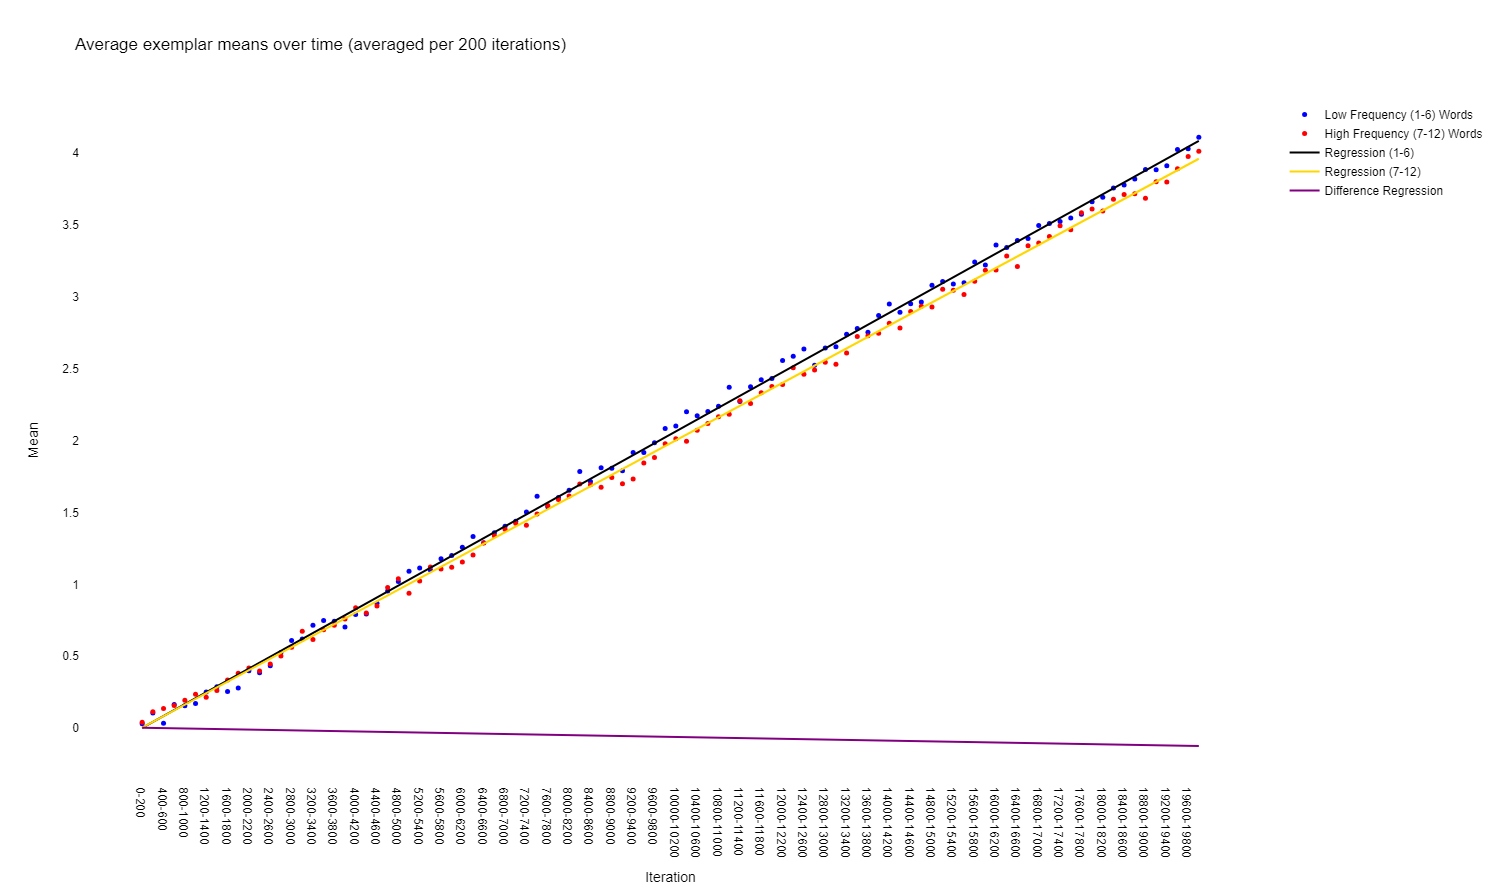
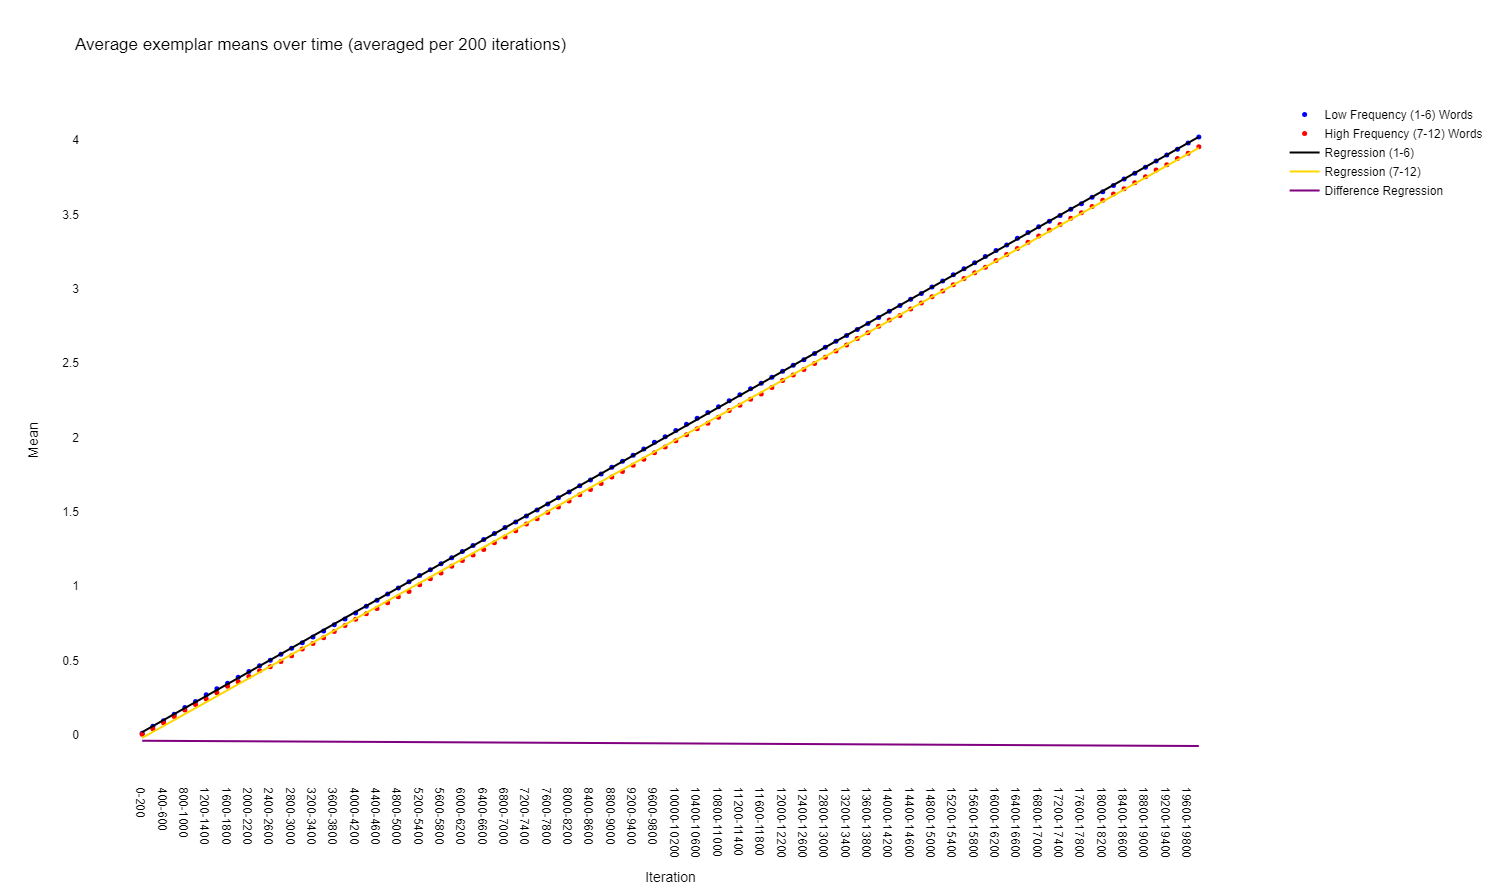
Add files via upload

diff --git a/Simple Dynamical Systems/Parallel/parallel_new.py b/Simple Dynamical Systems/Parallel/parallel_new.py
@@ -40,67 +40,92 @@ def reset_data(run_number):
     return pivoted_data_path
 
 def process_model(run_number):
-    try:
-        # Reset data for this run
-        pivoted_data_path = reset_data(run_number)
+    # Reset data for this run
+    pivoted_data_path = reset_data(run_number)
 
-        # Define mean dictionaries
-        means_1_6 = {}
-        means_7_12 = {}
+    # Define mean dictionaries
+    means_1_6_new = {}
+    means_7_12_new = {}
 
-        for i in range(20000):  # Increased number of iterations to 20,000
-            # Read master data
-            df = pd.read_json(pivoted_data_path, orient='records', lines=True)
+    df = pd.read_json(pivoted_data_path, orient='records', lines=True)
+    
+    # Extract the 'words' dictionary from the DataFrame
+    words_data = df['word_key'].tolist()
+    frequencies = df['frequency'].astype(int).tolist()
 
-            # Extract the 'words' dictionary from the DataFrame
-            words_data = df['word_key'].tolist()
-            frequencies = df['frequency'].astype(int).tolist()
+    # Initialize the sum of exemplar frequencies
+    exemplar_frequency_sum_1_6 = df[df.frequency <= 6]['frequency'].sum()
+    exemplar_frequency_sum_7_12 = df[df.frequency > 6]['frequency'].sum()
 
-            # Picking a word based on its frequency
-            chosen_word = random.choices(words_data, weights=frequencies, k=1)[0]
+    # Initialize exemplar means
+    filtered_df_1_6 = df[df['frequency'] <= 6]
+    filtered_df_7_12 = df[df['frequency'] > 6]
+    flattened_exemplars_1_6 = [exemplar for sublist in filtered_df_1_6['exemplars'] for exemplar in sublist] # Flatten the list of exemplar lists into a single list
+    flattened_exemplars_7_12 = [exemplar for sublist in filtered_df_7_12['exemplars'] for exemplar in sublist] # Flatten the list of exemplar lists into a single list
+    mean_exemplars_1_6 = np.mean(flattened_exemplars_1_6)
+    mean_exemplars_7_12 = np.mean(flattened_exemplars_7_12)
 
-            # Extract exemplars for the chosen word
-            exemplars_list = df[df.word_key == chosen_word]['exemplars'].iloc[0]
+    for i in range(20000):  # Increased number of iterations to 20,000
 
-            # Choose an exemplar randomly without weighting
-            chosen_exemplar = random.choice(exemplars_list)
+        # Picking a word based on its frequency
+        chosen_word = random.choices(words_data, weights=frequencies, k=1)[0]
 
-            # Add 0.1 to chosen exemplar
-            new_exemplar = chosen_exemplar + 0.1
+        # Extract exemplars for the chosen word
+        exemplars_list = df[df.word_key == chosen_word]['exemplars'].iloc[0]
 
-            # Choose a random index within the range of indices
-            random_index = np.random.choice(len(exemplars_list))
+        # Choose an exemplar randomly without weighting
+        chosen_exemplar = random.choice(exemplars_list)
 
-            # Replace the value of the exemplar at the random index with the new exemplar
-            exemplars_list[random_index] = new_exemplar
+        # Add 0.1 to chosen exemplar
+        new_exemplar = chosen_exemplar + 0.1
 
-            # Update the dataframe with the new exemplar list
-            df.at[df[df.word_key == chosen_word].index[0], 'exemplars'] = exemplars_list
-            df.to_json(pivoted_data_path, orient='records', lines=True)
+        # Choose a random index within the range of indices
+        random_index = np.random.choice(len(exemplars_list))
 
-            # Save the mean of the exemplars
-            if int(df[df.word_key == chosen_word]['frequency'].iloc[0]) < 7:
-                means_1_6[i] = np.mean(exemplars_list)
+        # Store the value of the exemplar at the random index
+        storage = exemplars_list[random_index]
+
+        # Replace the value of the exemplar at the random index with the new exemplar
+        exemplars_list[random_index] = new_exemplar
+
+        # Update the dataframe with the new exemplar list
+        df.at[df[df.word_key == chosen_word].index[0], 'exemplars'] = exemplars_list
+
+        # Calculate frequency of the chosen word
+        freq = int(df[df.word_key == chosen_word]['frequency'].iloc[0])
+
+        # Save the mean of the exemplars
+        if freq < 7:
+            # NEW
+            diff = new_exemplar - storage
+            if len(means_1_6_new) == 0:
+                means_1_6_new[i] = mean_exemplars_1_6 + diff / exemplar_frequency_sum_1_6 
+                index_storage_1_6 = i
             else:
-                means_7_12[i] = np.mean(exemplars_list)
-            
-            # Test
-            print(i, run_number)
+                means_1_6_new[i] = means_1_6_new[index_storage_1_6] + diff / exemplar_frequency_sum_1_6 
+                index_storage_1_6 = i
 
-        # Save the mean dictionaries as JSON files
-        means_1_6_path = f"Outputs/means_1_6_run{run_number + 1}.json"
-        means_7_12_path = f"Outputs/means_7_12_run{run_number + 1}.json"
+        else:
+            # NEW
+            diff = new_exemplar - storage
+            if len(means_7_12_new) == 0:
+                means_7_12_new[i] = mean_exemplars_7_12 + diff / exemplar_frequency_sum_7_12 
+                index_storage_7_12 = i
+            else:
+                means_7_12_new[i] = means_7_12_new[index_storage_7_12] + diff / exemplar_frequency_sum_7_12
+                index_storage_7_12 = i
 
-        with open(means_1_6_path, 'w') as f:
-            json.dump(means_1_6, f)
+    # Save the mean dictionaries as JSON files
+    means_1_6_new_path = f"Outputs/means_1_6_new_run{run_number + 1}.json"
+    means_7_12_new_path = f"Outputs/means_7_12_new_run{run_number + 1}.json"
 
-        with open(means_7_12_path, 'w') as f:
-            json.dump(means_7_12, f)
+    with open(means_1_6_new_path, 'w') as f:
+        json.dump(means_1_6_new, f)
 
-        return means_1_6_path, means_7_12_path
+    with open(means_7_12_new_path, 'w') as f:
+        json.dump(means_7_12_new, f)
 
-    except Exception as e:
-        print(f"Error in run {run_number}: {e}")
+    return means_1_6_new_path, means_7_12_new_path
 
 def parallel_new_model(iterations):
     processes = []
@@ -114,4 +139,4 @@ def parallel_new_model(iterations):
         process.join()
 
 if __name__ == '__main__':
-    parallel_new_model(iterations=10)
+    parallel_new_model(iterations=50)

diff --git a/Simple Dynamical Systems/Parallel/parallel_new_charts.py b/Simple Dynamical Systems/Parallel/parallel_new_charts.py
@@ -9,8 +9,8 @@ def database(runs):
     dfs_7_12 = []
     
     for a in range(1, runs+1):
-        means_1_6_path = 'Outputs/means_1_6_run' + str(a) + '.json'
-        means_7_12_path = 'Outputs/means_7_12_run' + str(a) + '.json'
+        means_1_6_path = 'Outputs/means_1_6_new_run' + str(a) + '.json'
+        means_7_12_path = 'Outputs/means_7_12_new_run' + str(a) + '.json'
         
         means_1_6 = pd.read_json(means_1_6_path, typ='series').to_frame(name=f'Mean{a}')
         means_7_12 = pd.read_json(means_7_12_path, typ='series').to_frame(name=f'Mean{a}')
@@ -108,4 +108,4 @@ def plots(runs):
 
     fig.show()
 
-plots(10)
+plots(50)
